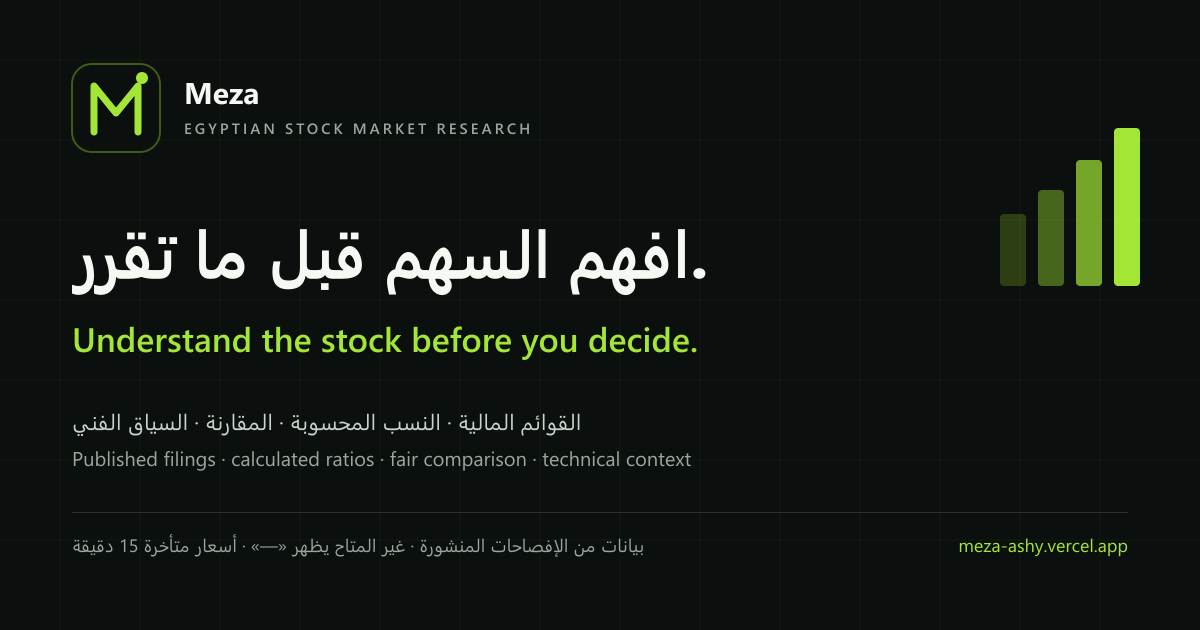
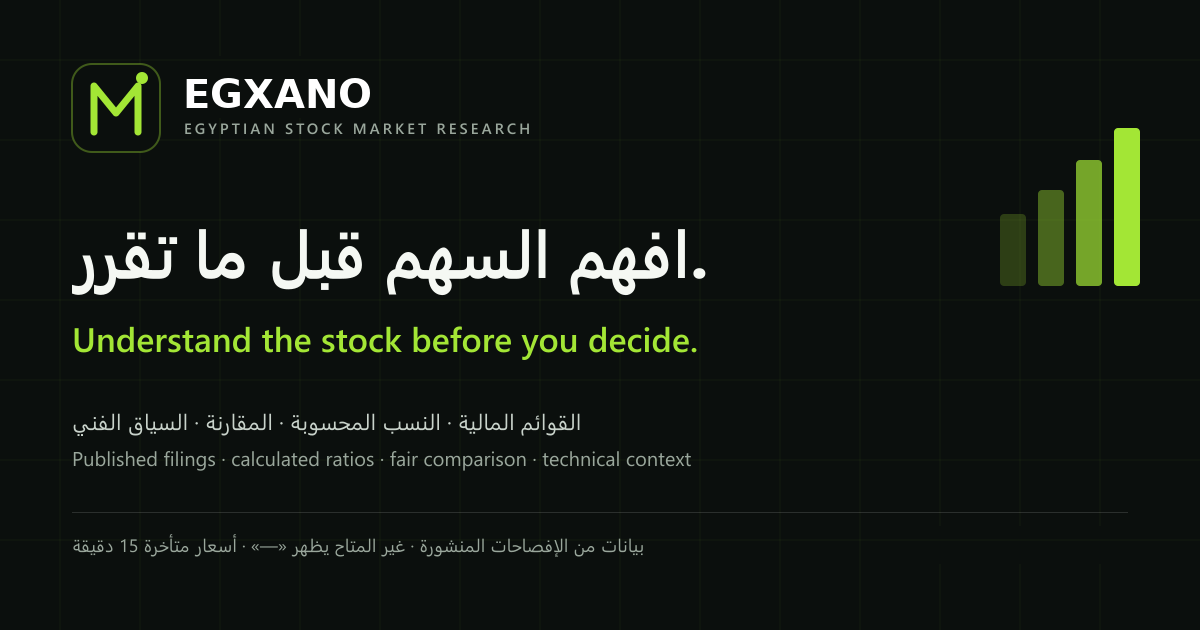
brand: finish EGXANO rename in user-facing strings and OG card
- BRAND.name 'Meza'->'EGXANO', nameAr 'ميزة'->'إيجيكسّانو' (central constants)
- visible wordmarks: TopHeader, app-header, dashboard hero, public-header aria
- chart/tradingview attribution notes -> EGXANO
- og-image.png: wordmark patched to EGXANO, meza-ashy domain line removed
  (Arabic headline/trust lines untouched — original rendering preserved)

Remaining (needs Vercel domain step): canonical url fallback in seo-config/robots
and privacy@ contact addresses still use meza-ashy.vercel.app.

Changed region(s): [[0.1542, 0.1206, 0.3083, 0.181], [0.8017, 0.8444, 0.9558, 0.8746]]

diff --git a/src/components/egx/price-chart.tsx b/src/components/egx/price-chart.tsx
@@ -4,7 +4,7 @@
 // each point is a real stored price with its source), so gaps are real gaps.
 //
 // The TradingView view is an external display: it is labelled as third-party and
-// delayed, and it is never the source of a calculated Meza figure. In Arabic the
+// delayed, and it is never the source of a calculated EGXANO figure. In Arabic the
 // snapshot view is the default, because the EGX TradingView symbol is not
 // rendered by the widget's Arabic locale and users would otherwise see an empty
 // frame on the first screen.
@@ -108,7 +108,7 @@ export function PriceChart({
           !showTv ? "bg-primary/10 text-primary" : "text-muted-foreground hover:bg-muted/60 disabled:opacity-40 disabled:hover:bg-transparent"
         }`}
       >
-        {ar ? "لقطات Meza" : "Meza snapshots"}
+        {ar ? "لقطات EGXANO" : "EGXANO snapshots"}
       </button>
     </div>
   )
@@ -132,8 +132,8 @@ export function PriceChart({
           <TradingViewChart ticker={ticker!} height={Math.max(height + 160, 420)} />
           <p className="mt-2 text-[10px] leading-relaxed text-muted-foreground">
             {ar
-              ? "الشارت من مصدر خارجي (TradingView). الأرقام المحسوبة في Meza لا تأتي من هذا الشارت."
-              : "Chart by a third party (TradingView). Meza's calculated figures are not sourced from this chart."}
+              ? "الشارت من مصدر خارجي (TradingView). الأرقام المحسوبة في EGXANO لا تأتي من هذا الشارت."
+              : "Chart by a third party (TradingView). EGXANO's calculated figures are not sourced from this chart."}
           </p>
         </CardContent>
       </Card>

diff --git a/src/components/egx/tradingview.tsx b/src/components/egx/tradingview.tsx
@@ -7,7 +7,7 @@
 // Both widgets report a `failed` state when the iframe never mounts (CSP
 // blocking, script blocked, no network). A failed widget must never leave a
 // large blank card on the page: the caller renders an honest fallback with a
-// link to TradingView and a note that Meza's calculated indicators do not
+// link to TradingView and a note that EGXANO's calculated indicators do not
 // depend on it.
 
 import { useEffect, useRef, useState } from "react"
@@ -105,8 +105,8 @@ function WidgetFallback({
       </a>
       <p className="max-w-xs text-[10px] leading-relaxed text-muted-foreground">
         {ar
-          ? "المؤشرات المحسوبة في Meza لا تعتمد على هذه الأداة — هي مصدر خارجي للعرض فقط."
-          : "Meza's calculated figures do not depend on this widget — it is an external display only."}
+          ? "المؤشرات المحسوبة في EGXANO لا تعتمد على هذه الأداة — هي مصدر خارجي للعرض فقط."
+          : "EGXANO's calculated figures do not depend on this widget — it is an external display only."}
       </p>
     </div>
   )
@@ -124,7 +124,7 @@ export function TradingViewChart({
   const dark = resolvedTheme === "dark"
   // The widget's own locale is kept to English: EGX symbols are not covered in
   // the Arabic widget locale (it renders an empty canvas), and the widget chrome
-  // is third-party UI, not Meza copy.
+  // is third-party UI, not EGXANO copy.
   const { containerRef, failed } = useTradingViewWidget("advanced-chart", {
     autosize: true,
     symbol: `EGX:${ticker}`,

diff --git a/src/components/layout/TopHeader.tsx b/src/components/layout/TopHeader.tsx
@@ -203,16 +203,16 @@ export function TopHeader({ className }: TopHeaderProps = {}) {
       )}
     >
       <div className="flex h-full items-center justify-between gap-4 px-4 sm:px-6 lg:px-8">
-        {/* Brand mark — keeps Meza visible at the very top of every page,
+        {/* Brand mark — keeps EGXANO visible at the very top of every page,
             including the dashboard where the sidebar may be hidden on mobile */}
         <Link
           href="/"
           className="flex shrink-0 items-center gap-2"
-          aria-label="Meza — Home"
+          aria-label="EGXANO — Home"
         >
           {/* eslint-disable-next-line @next/next/no-img-element */}
           <img src="/logo.svg" alt="" className="h-7 w-7 rounded-md" width={28} height={28} />
-          <span className="hidden text-sm font-bold tracking-tight text-foreground sm:inline">Meza</span>
+          <span className="hidden text-sm font-bold tracking-tight text-foreground sm:inline">EGXANO</span>
         </Link>
 
         {/* Market ticker — the signature trading-platform strip. Fixed width

diff --git a/src/components/egx/app-header.tsx b/src/components/egx/app-header.tsx
@@ -256,13 +256,13 @@ export function AppHeader({
             <Link
               href="/"
               className="flex items-center gap-2 rounded-xl px-2 py-1.5 transition-colors hover:bg-muted/60 focus-visible:outline-none focus-visible:ring-2 focus-visible:ring-ring focus-visible:ring-offset-1"
-              aria-label="Meza — home"
+              aria-label="EGXANO — home"
             >
               <span className="flex h-8 w-8 items-center justify-center rounded-xl bg-primary text-primary-foreground shadow-sm shadow-primary/20">
                 <Activity className="h-4 w-4" />
               </span>
               <span className="hidden sm:flex flex-col items-start leading-tight">
-                <span className="text-sm font-bold tracking-tight">Meza</span>
+                <span className="text-sm font-bold tracking-tight">EGXANO</span>
                 <span className="text-[10px] text-muted-foreground">{t("dash.title")}</span>
               </span>
             </Link>

diff --git a/src/components/egx/dashboard-view.tsx b/src/components/egx/dashboard-view.tsx
@@ -185,9 +185,9 @@ export function DashboardView({
         <div className="mb-4 flex items-center justify-between gap-3 border-b border-border/40 pb-4">
           <div className="flex items-center gap-2.5">
             {/* eslint-disable-next-line @next/next/no-img-element */}
-            <img src="/logo.svg" alt="Meza" className="h-9 w-9 rounded-lg" width={36} height={36} />
+            <img src="/logo.svg" alt="EGXANO" className="h-9 w-9 rounded-lg" width={36} height={36} />
             <div className="flex flex-col leading-tight">
-              <span className="text-sm font-bold tracking-tight text-foreground">Meza</span>
+              <span className="text-sm font-bold tracking-tight text-foreground">EGXANO</span>
               <span className="text-[10px] text-muted-foreground">{ar ? "تحليل بيانات البورصة المصرية" : "EGX market intelligence"}</span>
             </div>
           </div>

diff --git a/src/lib/brand.ts b/src/lib/brand.ts
@@ -1,4 +1,4 @@
-// Meza — brand constants and the metric glossary used by the UI.
+// EGXANO — brand constants and the metric glossary used by the UI.
 //
 // Everything here must stay truthful to what the product does. Copy that
 // promises profits, accuracy beyond the published filings, or "live" prices
@@ -7,8 +7,8 @@
 import { formatEgp } from "@/lib/financial/units"
 
 export const BRAND = {
-  name: "Meza",
-  nameAr: "ميزة",
+  name: "EGXANO",
+  nameAr: "إيجيكسّانو",
   taglineAr: "افهم السهم قبل ما تقرر.",
   taglineEn: "Understand the stock before you decide.",
   supportAr:

diff --git a/src/components/brand/public-header.tsx b/src/components/brand/public-header.tsx
@@ -51,7 +51,7 @@ export function PublicHeader() {
         <Link
           href="/"
           className="flex items-center rounded-lg transition-opacity hover:opacity-90 focus-visible:outline-none focus-visible:ring-2 focus-visible:ring-ring"
-          aria-label={ar ? "Meza — الرئيسية" : "Meza — Home"}
+          aria-label={ar ? "EGXANO — الرئيسية" : "EGXANO — Home"}
         >
           <EGXANOWordmark lang={lang} size={30} />
         </Link>
